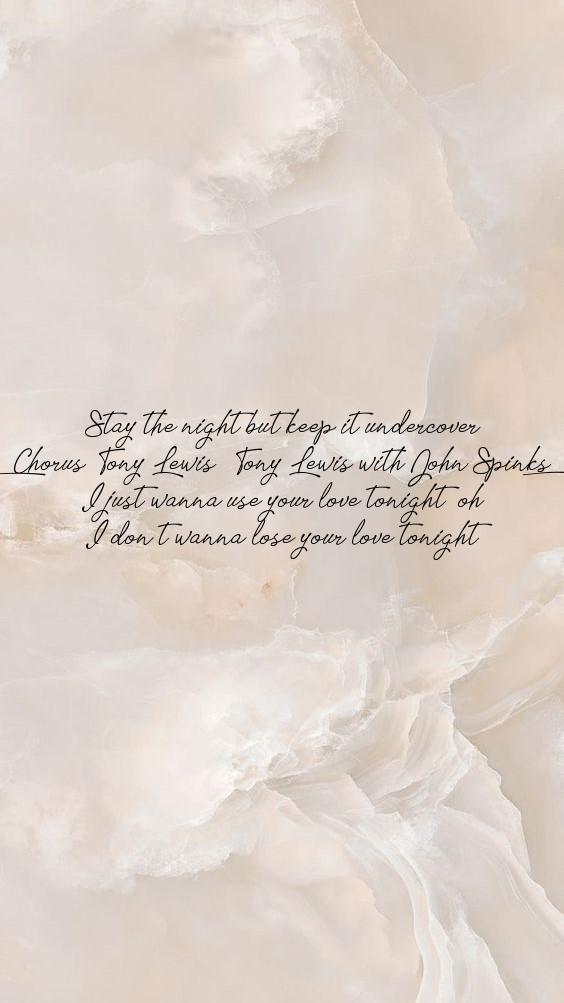
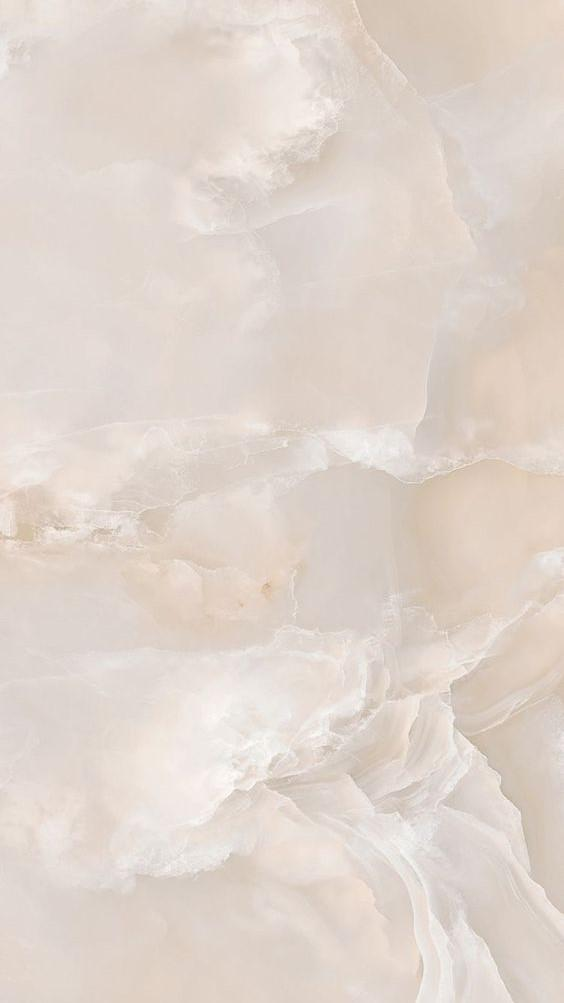
NOT WORKING - Font color / size / image picjker on web

Changed region(s): [[0.1206, 0.4018, 0.9645, 0.5563], [0.0301, 0.4327, 0.0904, 0.4945]]

diff --git a/static/styles/styles.css b/static/styles/styles.css
@@ -127,3 +127,55 @@ input:checked+.slider:before {
     border: 1px solid #ccc;
   }
   
+  /* Add these styles to your CSS file or within a <style> tag in your HTML */
+.lyrics-container {
+    display: flex;
+    justify-content: space-between;
+}
+
+.right-image {
+    /* Adjust the width and other styles as needed */
+    width: 40%; /* Set the width of the image */
+    float: right; /* Float the image to the right side */
+    padding-right: 30px;
+    padding-top: 30px;
+    padding-bottom: 30px;
+}
+
+.selections {
+    padding-left: 30px;
+    padding-top: 30px;
+    padding-bottom: 30px;
+    margin-bottom: 20px; /* Adjust the margin as needed */
+
+}
+
+#colorPicker {
+    -webkit-appearance: none;
+    -moz-appearance: none;
+    appearance: none;
+    width: 100px;
+    height: 100px;
+    background-color: transparent;
+    border: none;
+    cursor: pointer;
+  }
+  #colorPicker::-webkit-color-swatch {
+    border-radius: 15px;
+    border: none;
+  }
+  #colorPicker::-moz-color-swatch {
+    border-radius: 15px;
+    border: none;
+  }
+  
+  label {
+    font-family: "Poppins", sans-serif;
+    font-size: 20px;
+    cursor: pointer;
+  }
+
+  #colorPicker {
+    display: block;
+    margin-bottom: 10px; /* Adjust the margin as needed */
+  }

diff --git a/templates/lyricsSelected.html b/templates/lyricsSelected.html
@@ -1,13 +1,16 @@
 {% extends "layout.html" %}
 
 {% block body %}
-    {% for lyric in selected_lyrics %}
-        <ul>
-            <li>
-                {{lyric}}
-            </li>
-        </ul>
-    {% endfor %}
+    <div class="selections">
+        <form action="/selected_lyrics" method="post">
+            <input type="color" id="colorPicker" name="colorPicker" value="#3498db">
+            <label for="colorPicker">Font Color</label>
+            <input type="range" id="fontSize" name="fontSize" min="0" max="25" value="20">
+            <input type="submit" value="Submit">
+        </form>
 
-    <img src="{{ url_for('static', filename='output_image.jpg') }}" alt="Lyrics">
+
+
+        <img class="right-image" src="{{ url_for('static', filename='output_image.jpg') }}" alt="Lyrics">
+    </div>
 {% endblock %}
